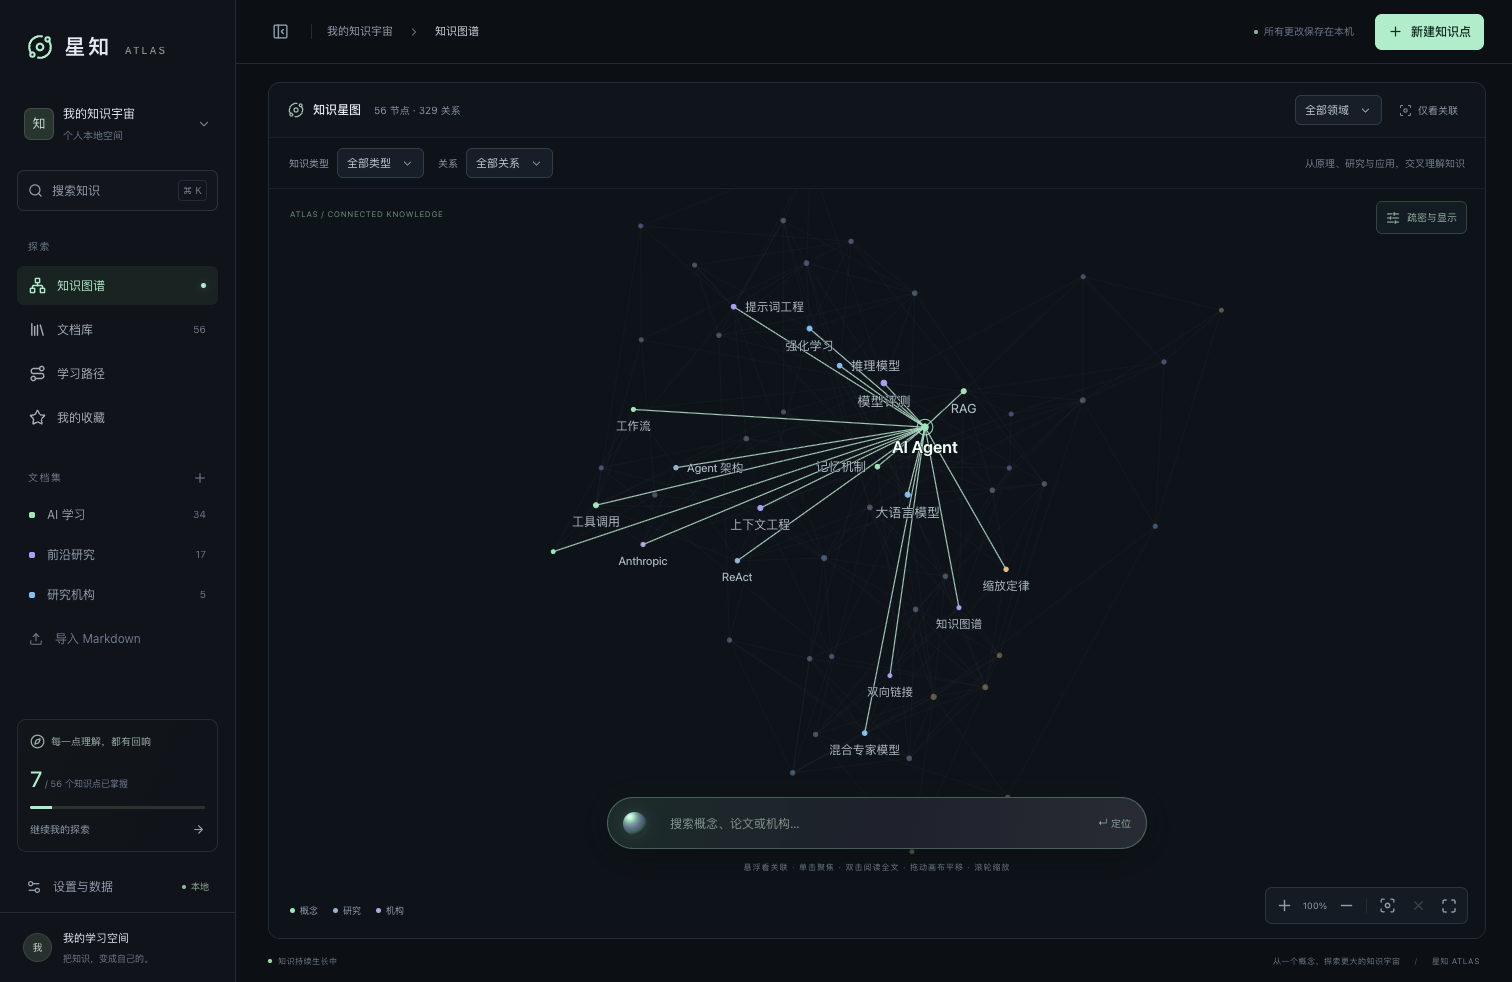
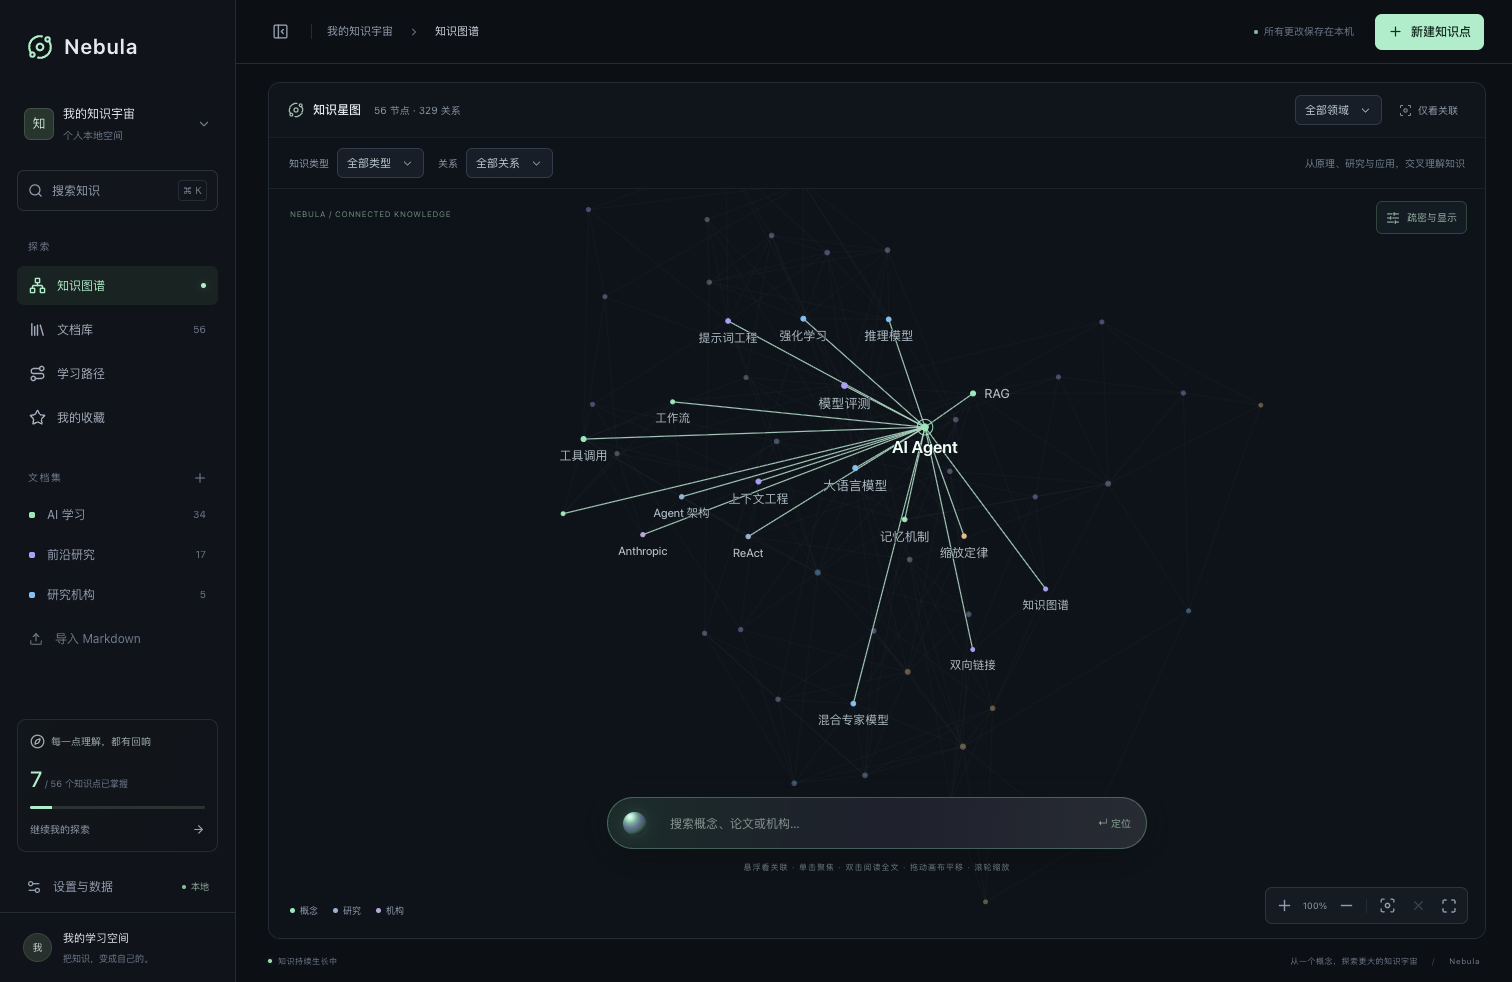
Add regression coverage for page rendering

diff --git a/tests/render.spec.ts b/tests/render.spec.ts
@@ -1,0 +1,33 @@
+import { test, expect } from "@playwright/test";
+
+test("页面和静态样式属于同一构建，刷新后仍保持完整布局", async ({
+  page,
+  request,
+}) => {
+  const failedAssets: string[] = [];
+  page.on("response", (response) => {
+    if (response.url().includes("/_next/") && response.status() >= 400)
+      failedAssets.push(`${response.status()} ${response.url()}`);
+  });
+  for (let load = 0; load < 2; load++) {
+    await page.goto("/");
+    await expect(page.locator(".node-core").first()).toBeVisible();
+    await expect(page.locator("body")).toHaveCSS(
+      "background-color",
+      "rgb(12, 15, 20)",
+    );
+    await expect(page.locator(".atlas-app")).toHaveCSS("display", "flex");
+    const styles = await page
+      .locator('link[rel="stylesheet"]')
+      .evaluateAll((elements) =>
+        elements.map((element) => (element as HTMLLinkElement).href),
+      );
+    expect(styles.length).toBeGreaterThan(0);
+    for (const url of styles) {
+      const response = await request.get(url);
+      expect(response.ok(), `Missing stylesheet: ${url}`).toBeTruthy();
+      expect(response.headers()["content-type"]).toContain("text/css");
+    }
+  }
+  expect(failedAssets).toEqual([]);
+});

diff --git a/README.md b/README.md
@@ -16,6 +16,8 @@ npm run preview
 
 浏览器打开 http://127.0.0.1:3210 。首次模型下载约 130 MB，之后离线使用。Node.js 24+。本机开发已经安装好依赖和模型。
 
+更新代码后，先在运行服务的终端按 Control+C 停止服务，再运行 `npm run build`，最后运行 `npm run preview`。不要在服务仍运行时覆盖 `.next` 构建目录，否则旧服务可能继续引用已被新构建替换的样式文件，出现无样式白页。
+
 开发：
 
 ```bash
@@ -55,14 +57,25 @@ npm run dev -- --hostname 127.0.0.1 --port 3210
 
 ## 验证
 
-先启动应用，然后运行：
+先停止运行中的应用，再检查与构建：
 
 ```bash
 cd /Users/isaac/Documents/ChatGPT/知识图谱
 npm run lint
 npm run typecheck
-npm run test
 npm run build
+```
+
+然后启动应用，在另一个终端运行浏览器验收：
+
+```bash
+cd /Users/isaac/Documents/ChatGPT/知识图谱
+npm run preview
+```
+
+```bash
+cd /Users/isaac/Documents/ChatGPT/知识图谱
+npm run test
 ```
 
 端到端测试使用本机 Chrome，对临时验收文档进行创建与删除，不修改示例内容。语义用例要求已建立索引。另见 `docs/research/design.md`、`docs/research/obsidian-graph-interaction.md`、`docs/research/drag-and-select-fix.md` 与 `docs/验收记录.md`。

diff --git a/docs/验收记录.md b/docs/验收记录.md
@@ -1,3 +1,14 @@
+# 2026-11-03 无样式白页恢复
+
+- 复现：页面引用 `0c62u0eoqwzf-.css` 返回 HTTP 500，磁盘当前构建只包含 `3nu1zuag-uve7.css`；无缓存新浏览器也复现。页面背景透明、主布局退回 block。
+- 根因：运行中的 Next 服务始于 09:44，`.next` 构建目录在 10:32 被替换，旧服务继续使用旧资源映射。
+- 恢复：确认进程属于当前项目后停止旧服务，以当前构建重新启动 3210。样式正常返回，背景恢复 rgb(12,15,20)、主布局恢复 flex。
+- 验证：静态资源与重复刷新、默认高亮、拖动避碰/跟随/松手缓动共 3 组浏览器回归通过；下拉菜单展开关闭正常。重启前后完整知识库 API 摘要一致，56 篇文档、329 条关系未变。
+- 新增 `tests/render.spec.ts` 检查实际 CSS 请求与计算样式，避免仅检查元素存在而漏掉整页样式丢失。README 修正验证顺序：先停服务再构建，然后启动并运行浏览器验收。
+- 恢复截图：`research/nebula-render-restored.png`。
+
+---
+
 # 0.3.2 Nebula 品牌更名验收
 
 日期：2026-11-03。
